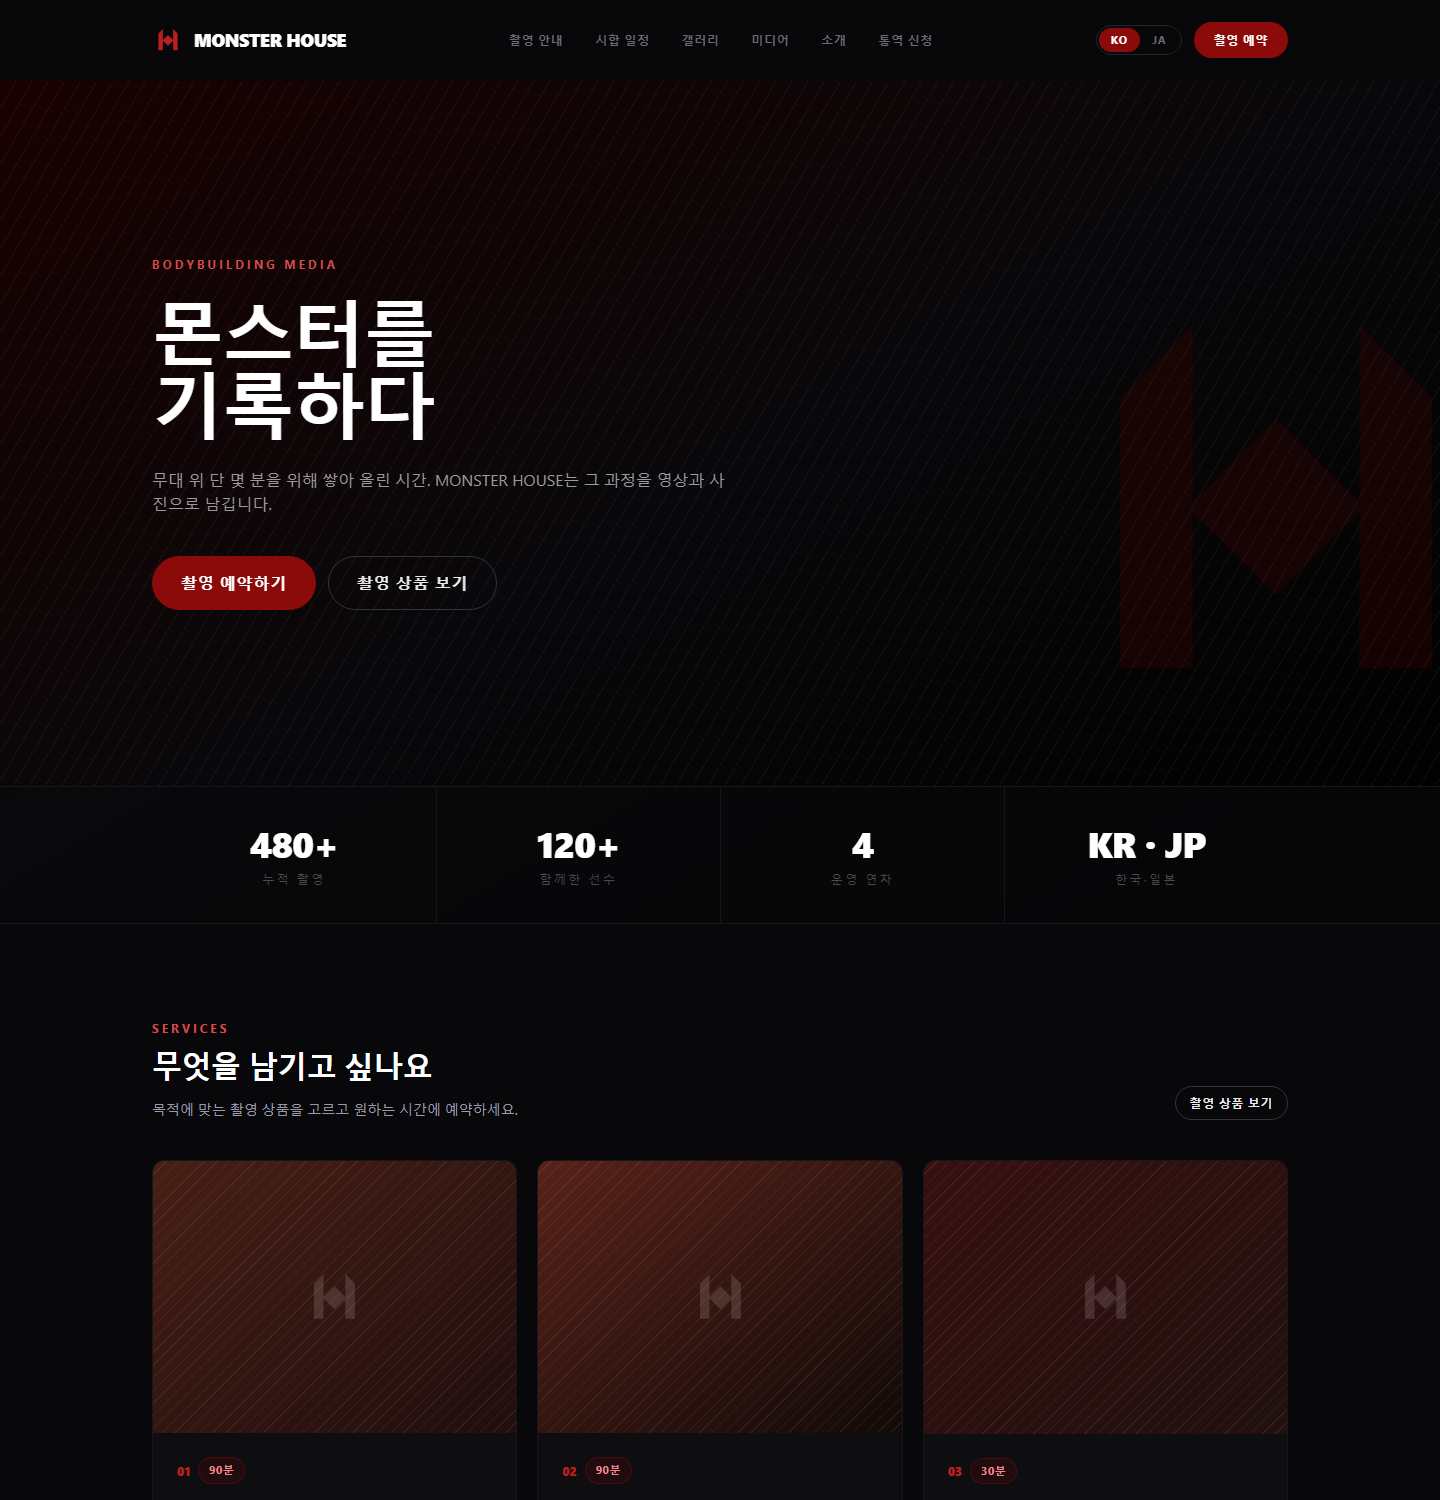
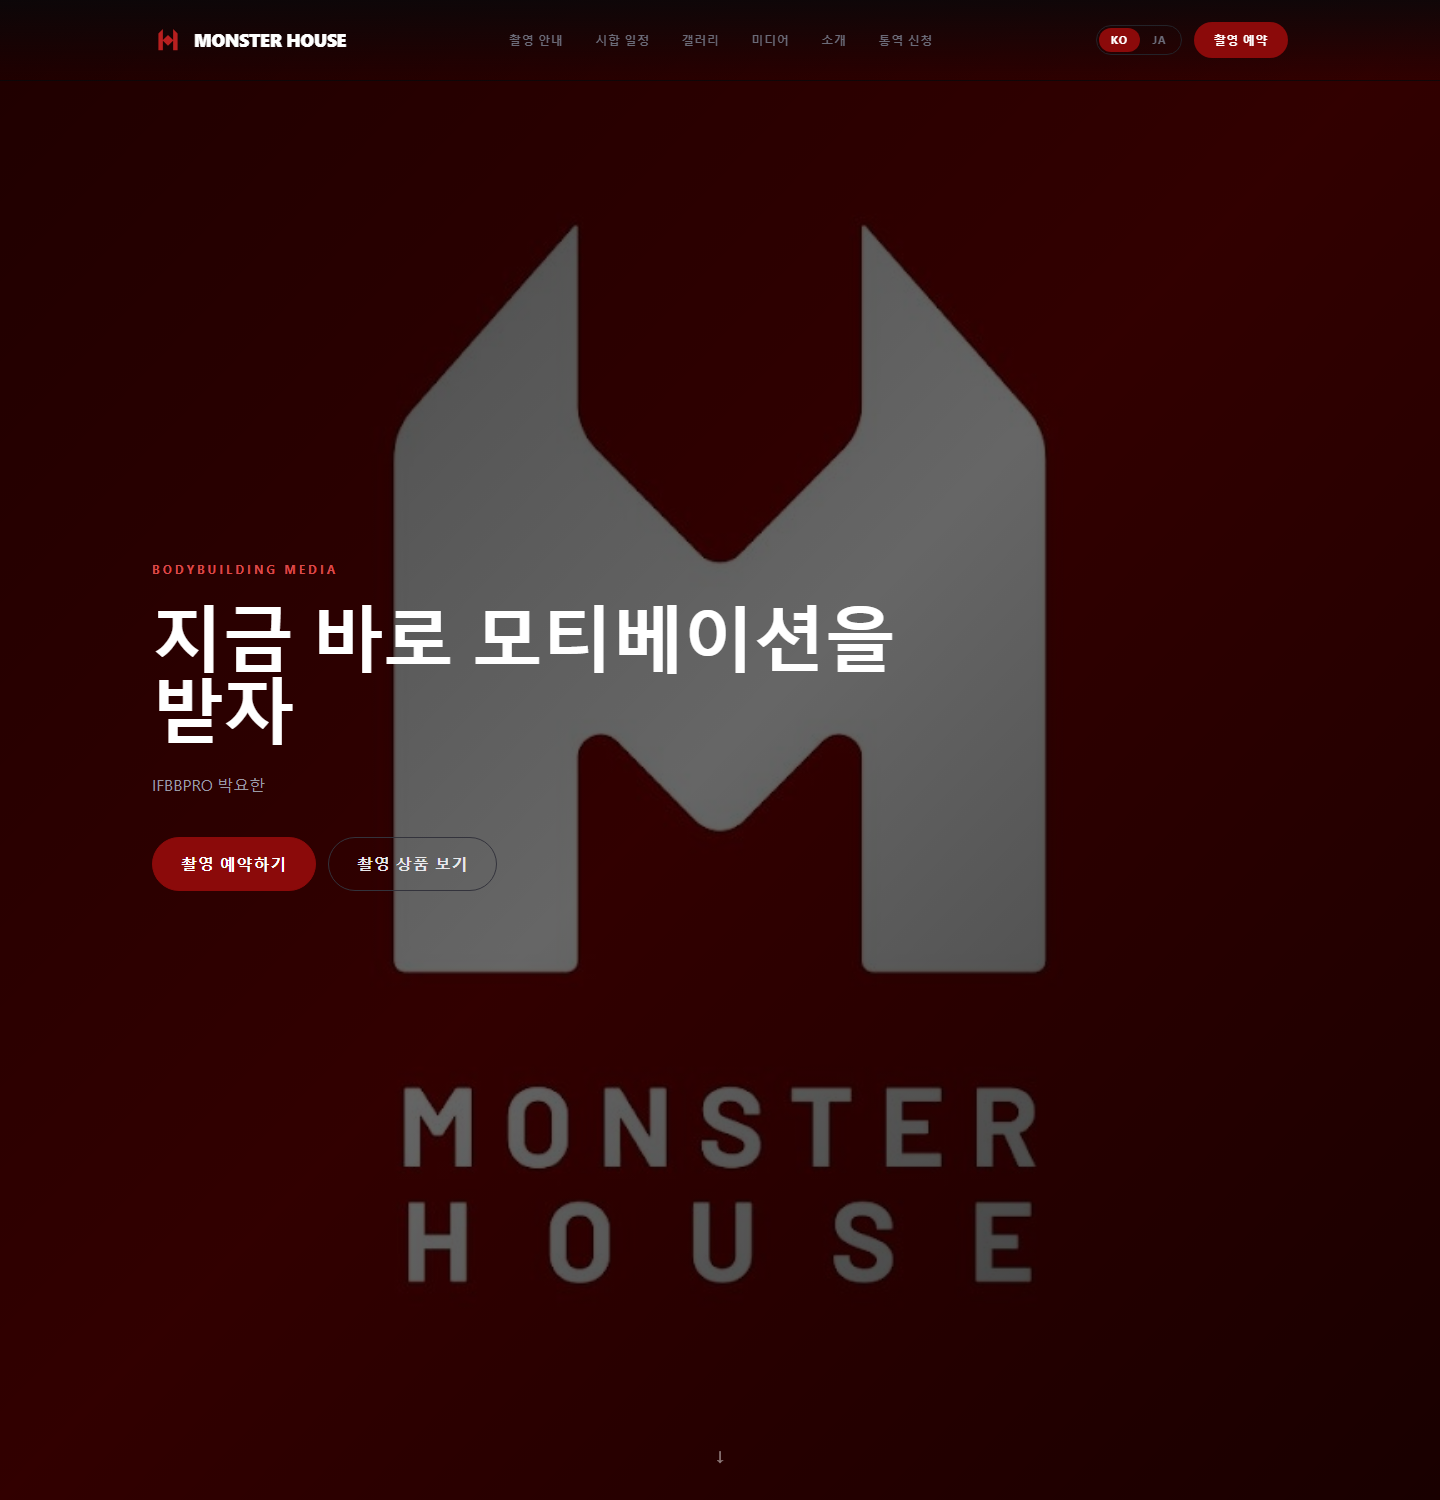
docs: 메인 스크린샷 재촬영 — 전체 화면 배너 히어로 반영
메인 히어로가 전체 화면 배너 캐러셀로 바뀌어 기존 home.png 가 실제와 달랐다.
등록된 영상 배너가 보이는 상태로 다시 찍었다. 나머지 화면은 2026-08 캡처본 유지.

diff --git a/profile/README.md b/profile/README.md
@@ -36,8 +36,8 @@
 
 > 실제 동작 화면입니다. 목 데이터가 아니라 **DB에 연결된 상태**에서 캡처했습니다.
 > 갤러리 사진은 데모용 플레이스홀더입니다.
-> <br /><sub>캡처 시점 2026-08. 이후 메인 히어로가 전체 화면 배너(이미지·MP4 슬라이드)로 바뀌어
-> 실제 화면과 차이가 있습니다.</sub>
+> <br /><sub>메인은 전체 화면 배너(이미지·MP4 슬라이드)로 최신 캡처입니다.
+> 나머지 화면은 2026-08 캡처본입니다.</sub>
 
 <div align="center">
   <img src="./assets/home.png" alt="메인" width="800" />
